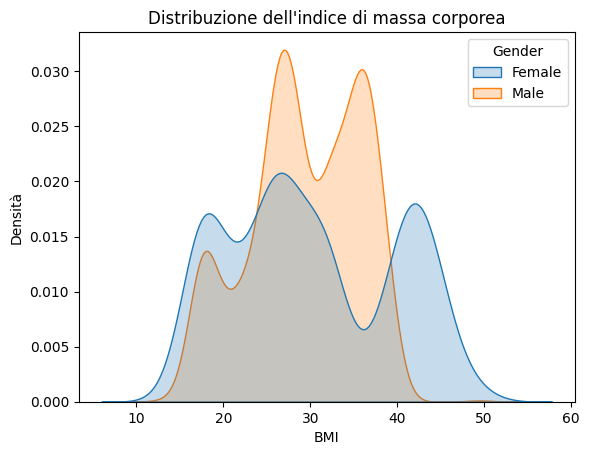
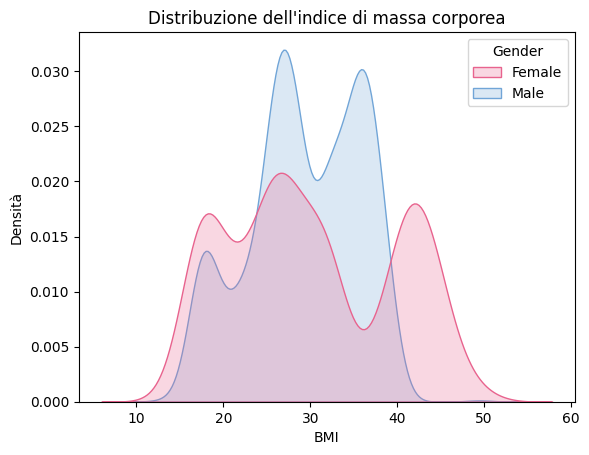
funzione grafico a violino

Changed region(s): [[0.2139, 0.0923, 0.8862, 0.8923], [0.7946, 0.1231, 0.8557, 0.2462]]

diff --git a/analisi_descrittiva.py b/analisi_descrittiva.py
@@ -20,17 +20,17 @@ def weight_height():
     numero_bin_height = int((max(obesity['Height']) - min(obesity['Height'])) / larghezza_bin_height)
 
     plt.subplot(1, 2, 1)
-    sns.histplot(obesity['Weight'], bins=numero_bin_weight, color='#2D9596', kde=True, alpha=0.3)
+    sns.histplot(obesity['Weight'], bins=numero_bin_weight, color='#ec7c26', kde=True, alpha=0.5)
     plt.xlabel('Peso')
     plt.ylabel('Frequenza')
     plt.title('Distribuzione del peso')
 
     plt.subplot(1, 2, 2)
-    sns.histplot(obesity['Height'], bins=numero_bin_height, color='#82A0D8', kde=True)
+    sns.histplot(obesity['Height'], bins=numero_bin_height, color='#009090', kde=True,  alpha=0.3)
     plt.xlabel('Altezza')
     plt.ylabel('Frequenza')
     plt.title('Distribuzione dell\'altezza')
-    plt.savefig('grafici/Distribuzione Altezza', bbox_inches='tight')
+    plt.savefig('grafici/Distribuzione Altezza e Peso', bbox_inches='tight')
 
     plt.show()
 
@@ -39,7 +39,7 @@ def BMI():
     obesity['BMI'] = obesity['Weight'] / obesity['Height'] ** 2
 
     sns.color_palette('Paired')
-    sns.kdeplot(obesity, x=obesity['BMI'], hue=obesity['Gender'], fill=True)
+    sns.kdeplot(obesity, x=obesity['BMI'], hue=obesity['Gender'], fill=True, palette={'Male':'#71a5d7', 'Female':'#e8638e'})
     plt.ylabel('Densità')
     plt.title('Distribuzione dell\'indice di massa corporea')
     plt.savefig('grafici/Distribuzione BMI', bbox_inches='tight')
@@ -56,9 +56,22 @@ def pie_chart():
              stato_nutrizionale.get('Obesity_Type_I', 0), stato_nutrizionale.get('Obesity_Type_II', 0),
              stato_nutrizionale.get('Obesity_Type_III', 0)]
     colors = sns.color_palette('Paired')[0:10]
-    plt.pie(count, colors=colors, autopct='%.0f%%', labels=None)
+    plt.pie(count, color=colors, autopct='%.0f%%', labels=None)
     plt.legend(labels, bbox_to_anchor=(1.05, 1.0), loc='upper left')
     plt.savefig('grafici/Pie Chart', bbox_inches='tight')
+
+    plt.show()
+
+
+def violin_chart():
+    plt.figure(figsize=(15, 6))  # Imposta le dimensioni della figura
+    sns.violinplot(data=obesity, x=obesity['Nutritional Status'], y=obesity['Age'], hue=obesity['Gender'], split=True,
+                   gap=.1, inner="point", cut=0, bw_adjust=3.0, palette= {'Male':'#71a5d7', 'Female':'#e8638e'},
+                   order=['Insufficient_Weight', 'Normal_Weight', 'Overweight_Level_I',
+                            'Overweight_Level_II', 'Obesity_Type_I', 'Obesity_Type_II', 'Obesity_Type_III'])
+    plt.title('Distribuzione dello stato nutrizionale per età')
+
+    plt.savefig('grafici/Grafico a violino', bbox_inches='tight')
 
     plt.show()
 
@@ -72,7 +85,6 @@ def plot_correlation_matrix(df):
 
     corr = df.corr()
     plt.figure(figsize=(16, 12))
-    sns.color_palette('Paired')
     sns.heatmap(corr, annot=True, cmap='crest')
 
     plt.title('Correlation Matrix')
@@ -80,7 +92,7 @@ def plot_correlation_matrix(df):
 
     plt.show()
 
-
+violin_chart()
 weight_height()
 BMI()
 pie_chart()
